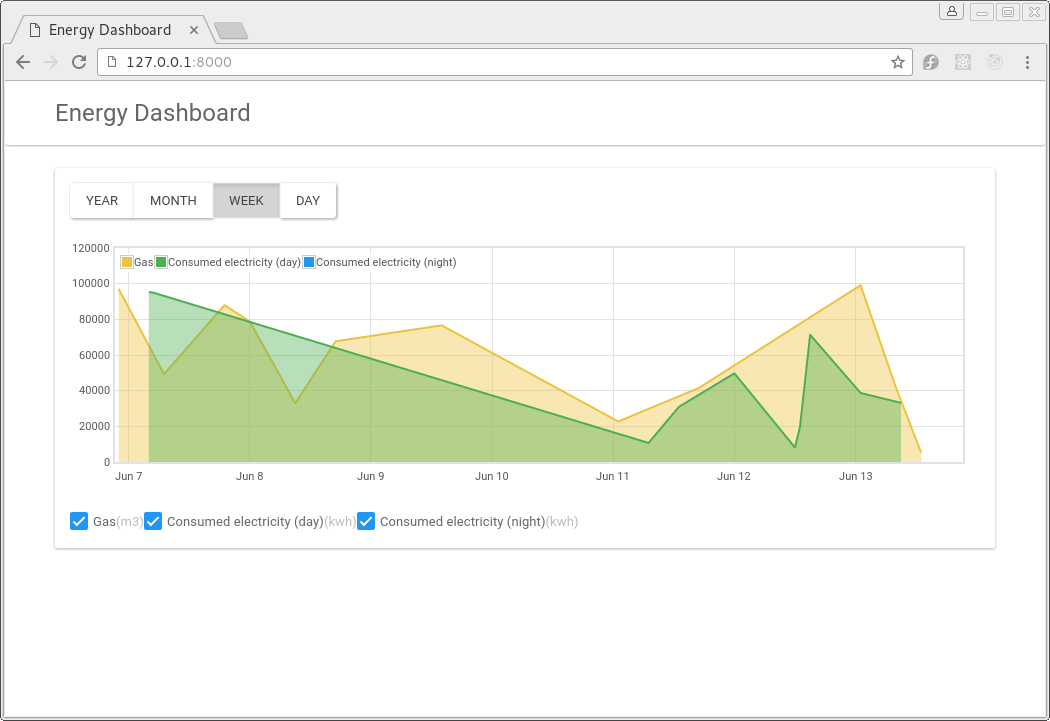
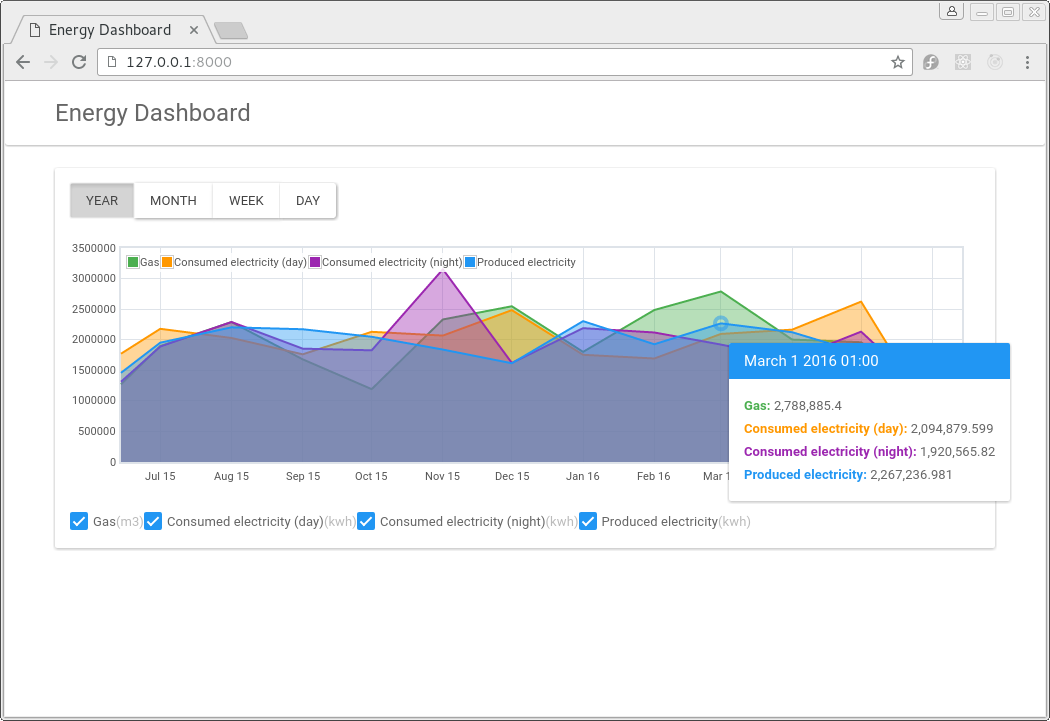
Nicer overlay on graph.

diff --git a/src/energy_dashboard/front_end/static/src/components/FlotChart.jsx b/src/energy_dashboard/front_end/static/src/components/FlotChart.jsx
@@ -26,12 +26,13 @@ let numberWithCommas = function(x) {
 let buildTooltipHandler = function(series) {
   return function(_l, xval, _y, flotItem) {
     let yval;
-    let content = '<h6>' + moment(xval).format('MMMM D YYYY HH:mm z') + '</h6>';
+    let content = '<div class="panel panel-primary"><div class="panel-heading"><h3 class="panel-title">' + moment(xval).format('MMMM D YYYY HH:mm z') + '</h3></div><div class="panel-body">';
     for (let i = 0; i < series.length; i++) {
       // we're assuming series are identical
       yval = numberWithCommas(series[i].data[flotItem.dataIndex][1] || 0);
       content += '<strong style="color:' + series[i].color + '">' + series[i].label + ':</strong> ' + yval + '<br>';
     }
+    content += '</div></div>';
     return content;
   };
 };

diff --git a/src/energy_dashboard/back_end/fixtures/002_consumed_electricity_day.py b/src/energy_dashboard/back_end/fixtures/002_consumed_electricity_day.py
@@ -1,12 +1,11 @@
 from dynamic_fixtures.fixtures.basefixture import BaseFixture
 
-from energy_dashboard.back_end.factories import PowerMeterFactory, \
-    ReadingFactory
+from energy_dashboard.back_end.factories import ReadingFactory
+from energy_dashboard.back_end.models import PowerMeter
 
 
 class Fixture(BaseFixture):
 
     def load(self):
-        power_meter = PowerMeterFactory(name='Consumed electricity (day)',
-                                        unit='kwh')
-        ReadingFactory.create_batch(1000, power_meter=power_meter)
+        for power_meter in PowerMeter.objects.all():
+            ReadingFactory.create_batch(500, power_meter=power_meter)

diff --git a/src/energy_dashboard/back_end/api/views.py b/src/energy_dashboard/back_end/api/views.py
@@ -35,7 +35,7 @@ class ReadingReportList(views.APIView):
 
 class PowerMeterViewSet(viewsets.ModelViewSet):
 
-    queryset = PowerMeter.objects.order_by('-name').all()
+    queryset = PowerMeter.objects.all()
     serializer_class = PowerMeterSerializer
 
 
